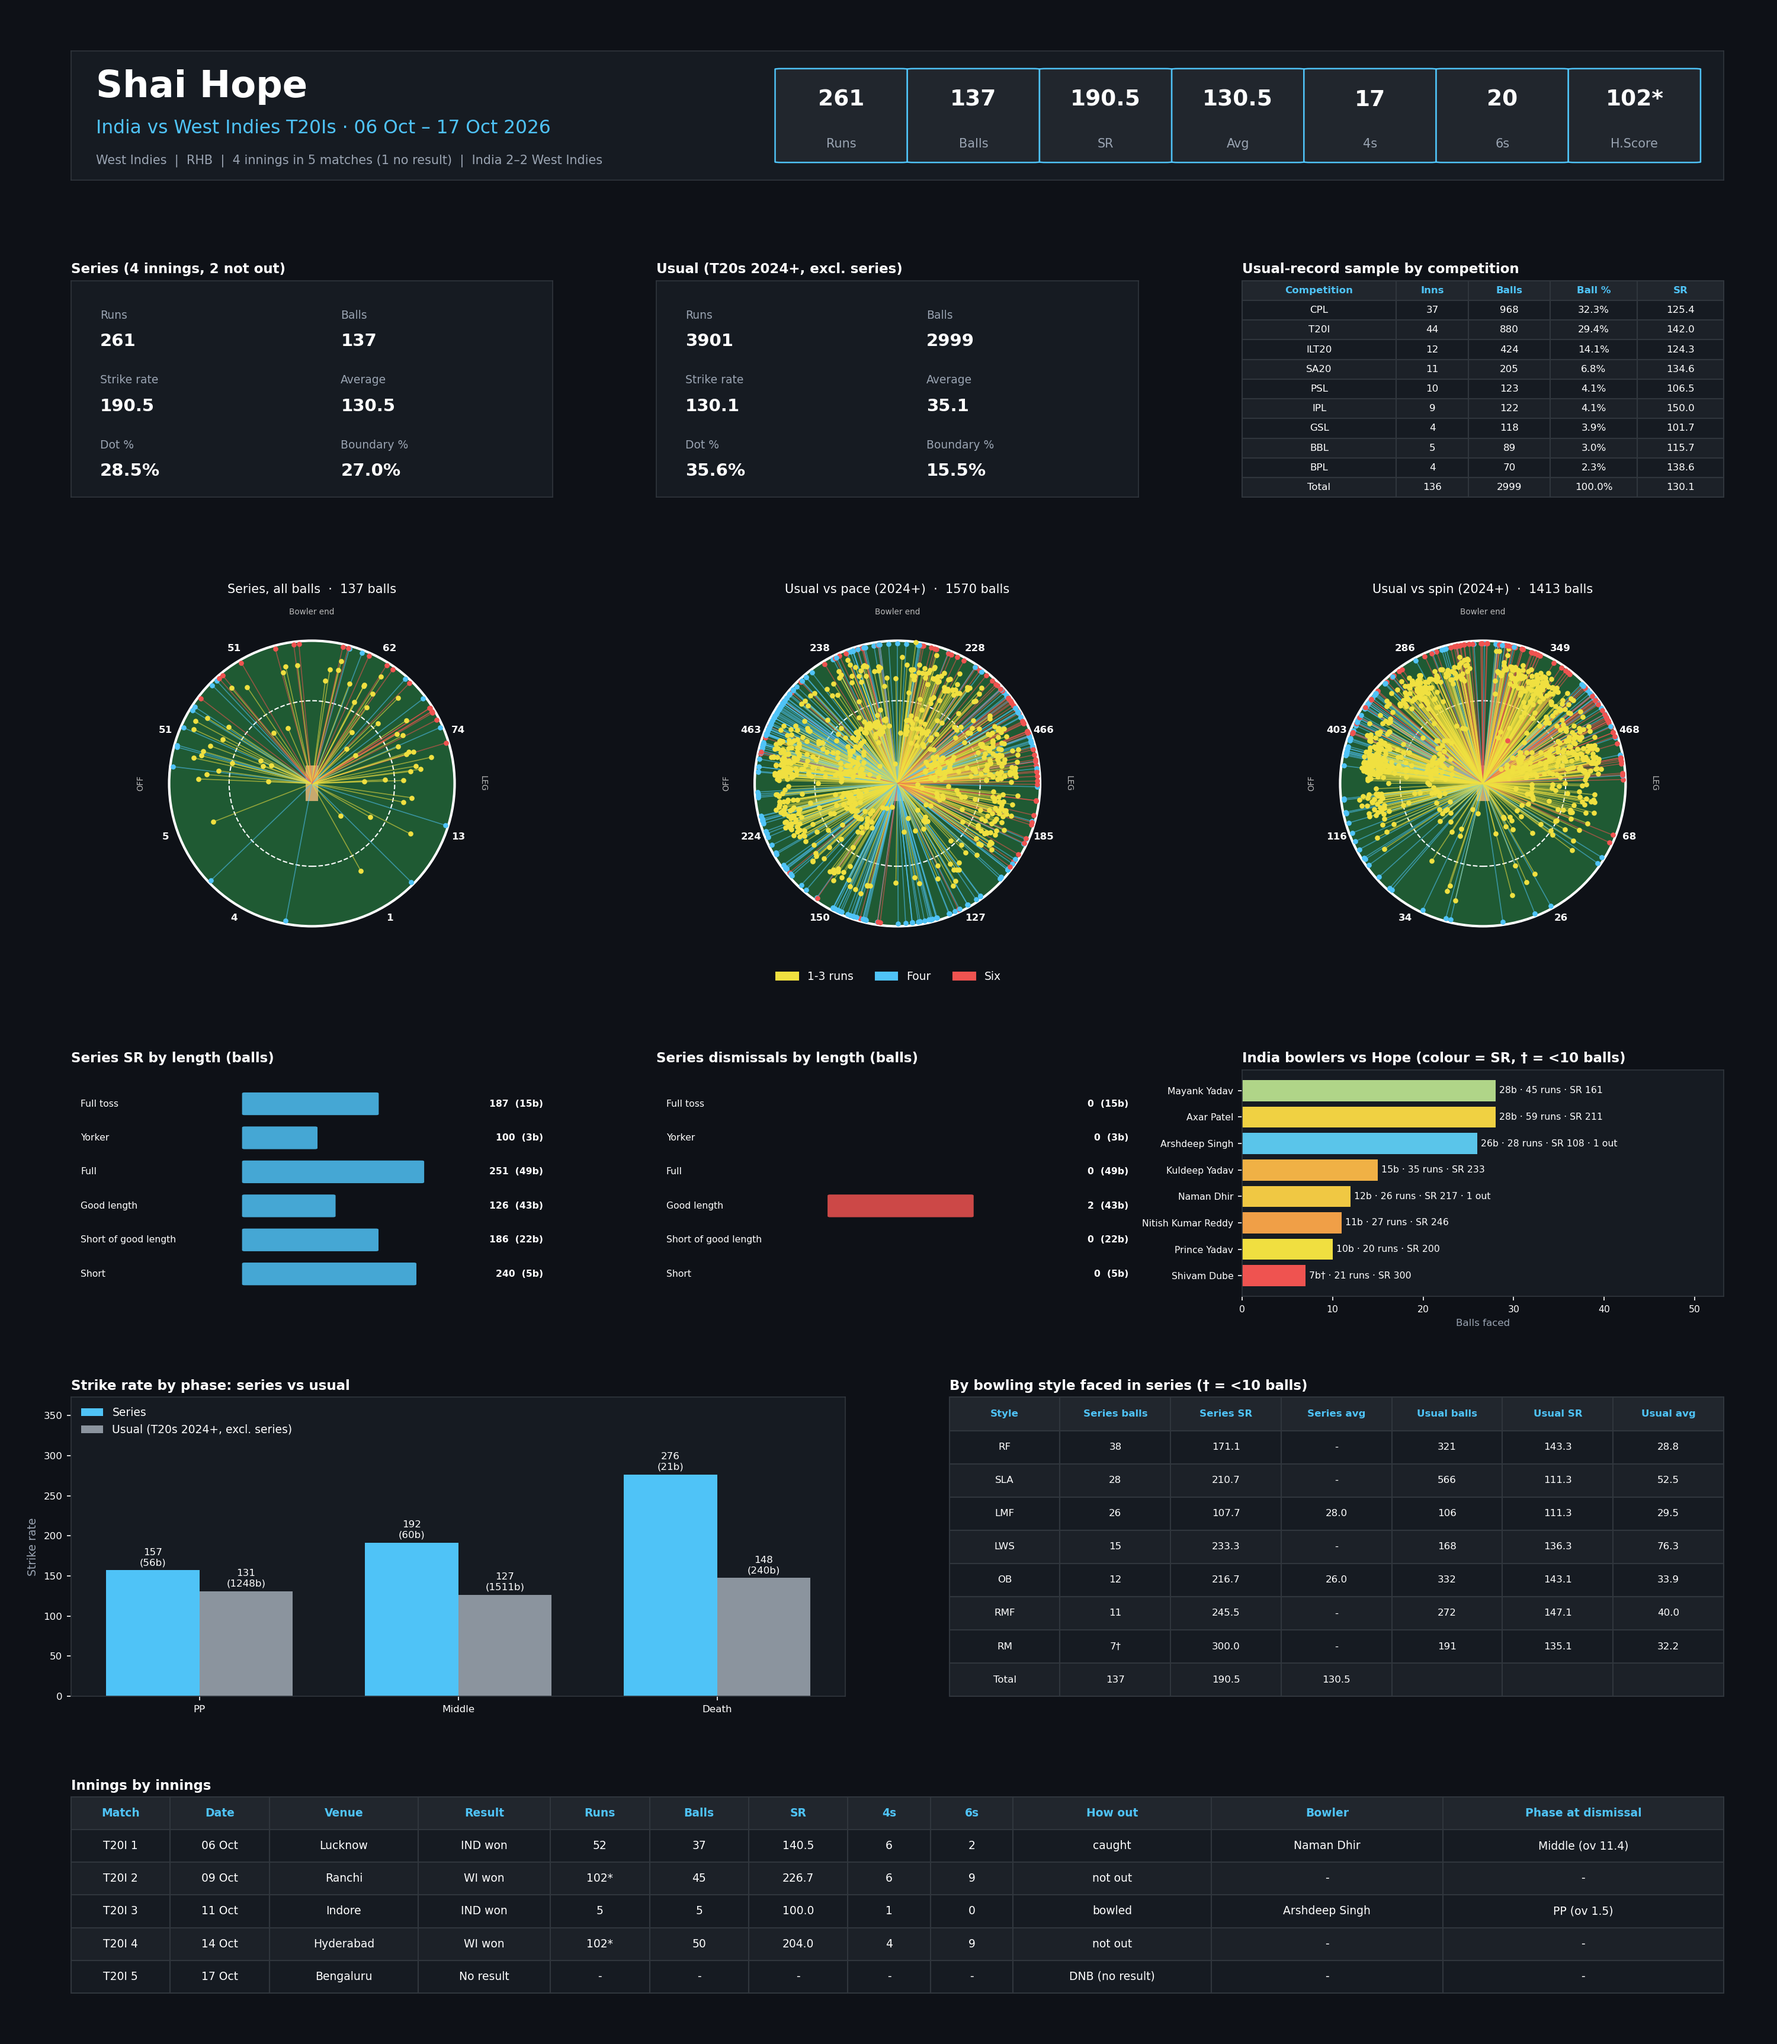
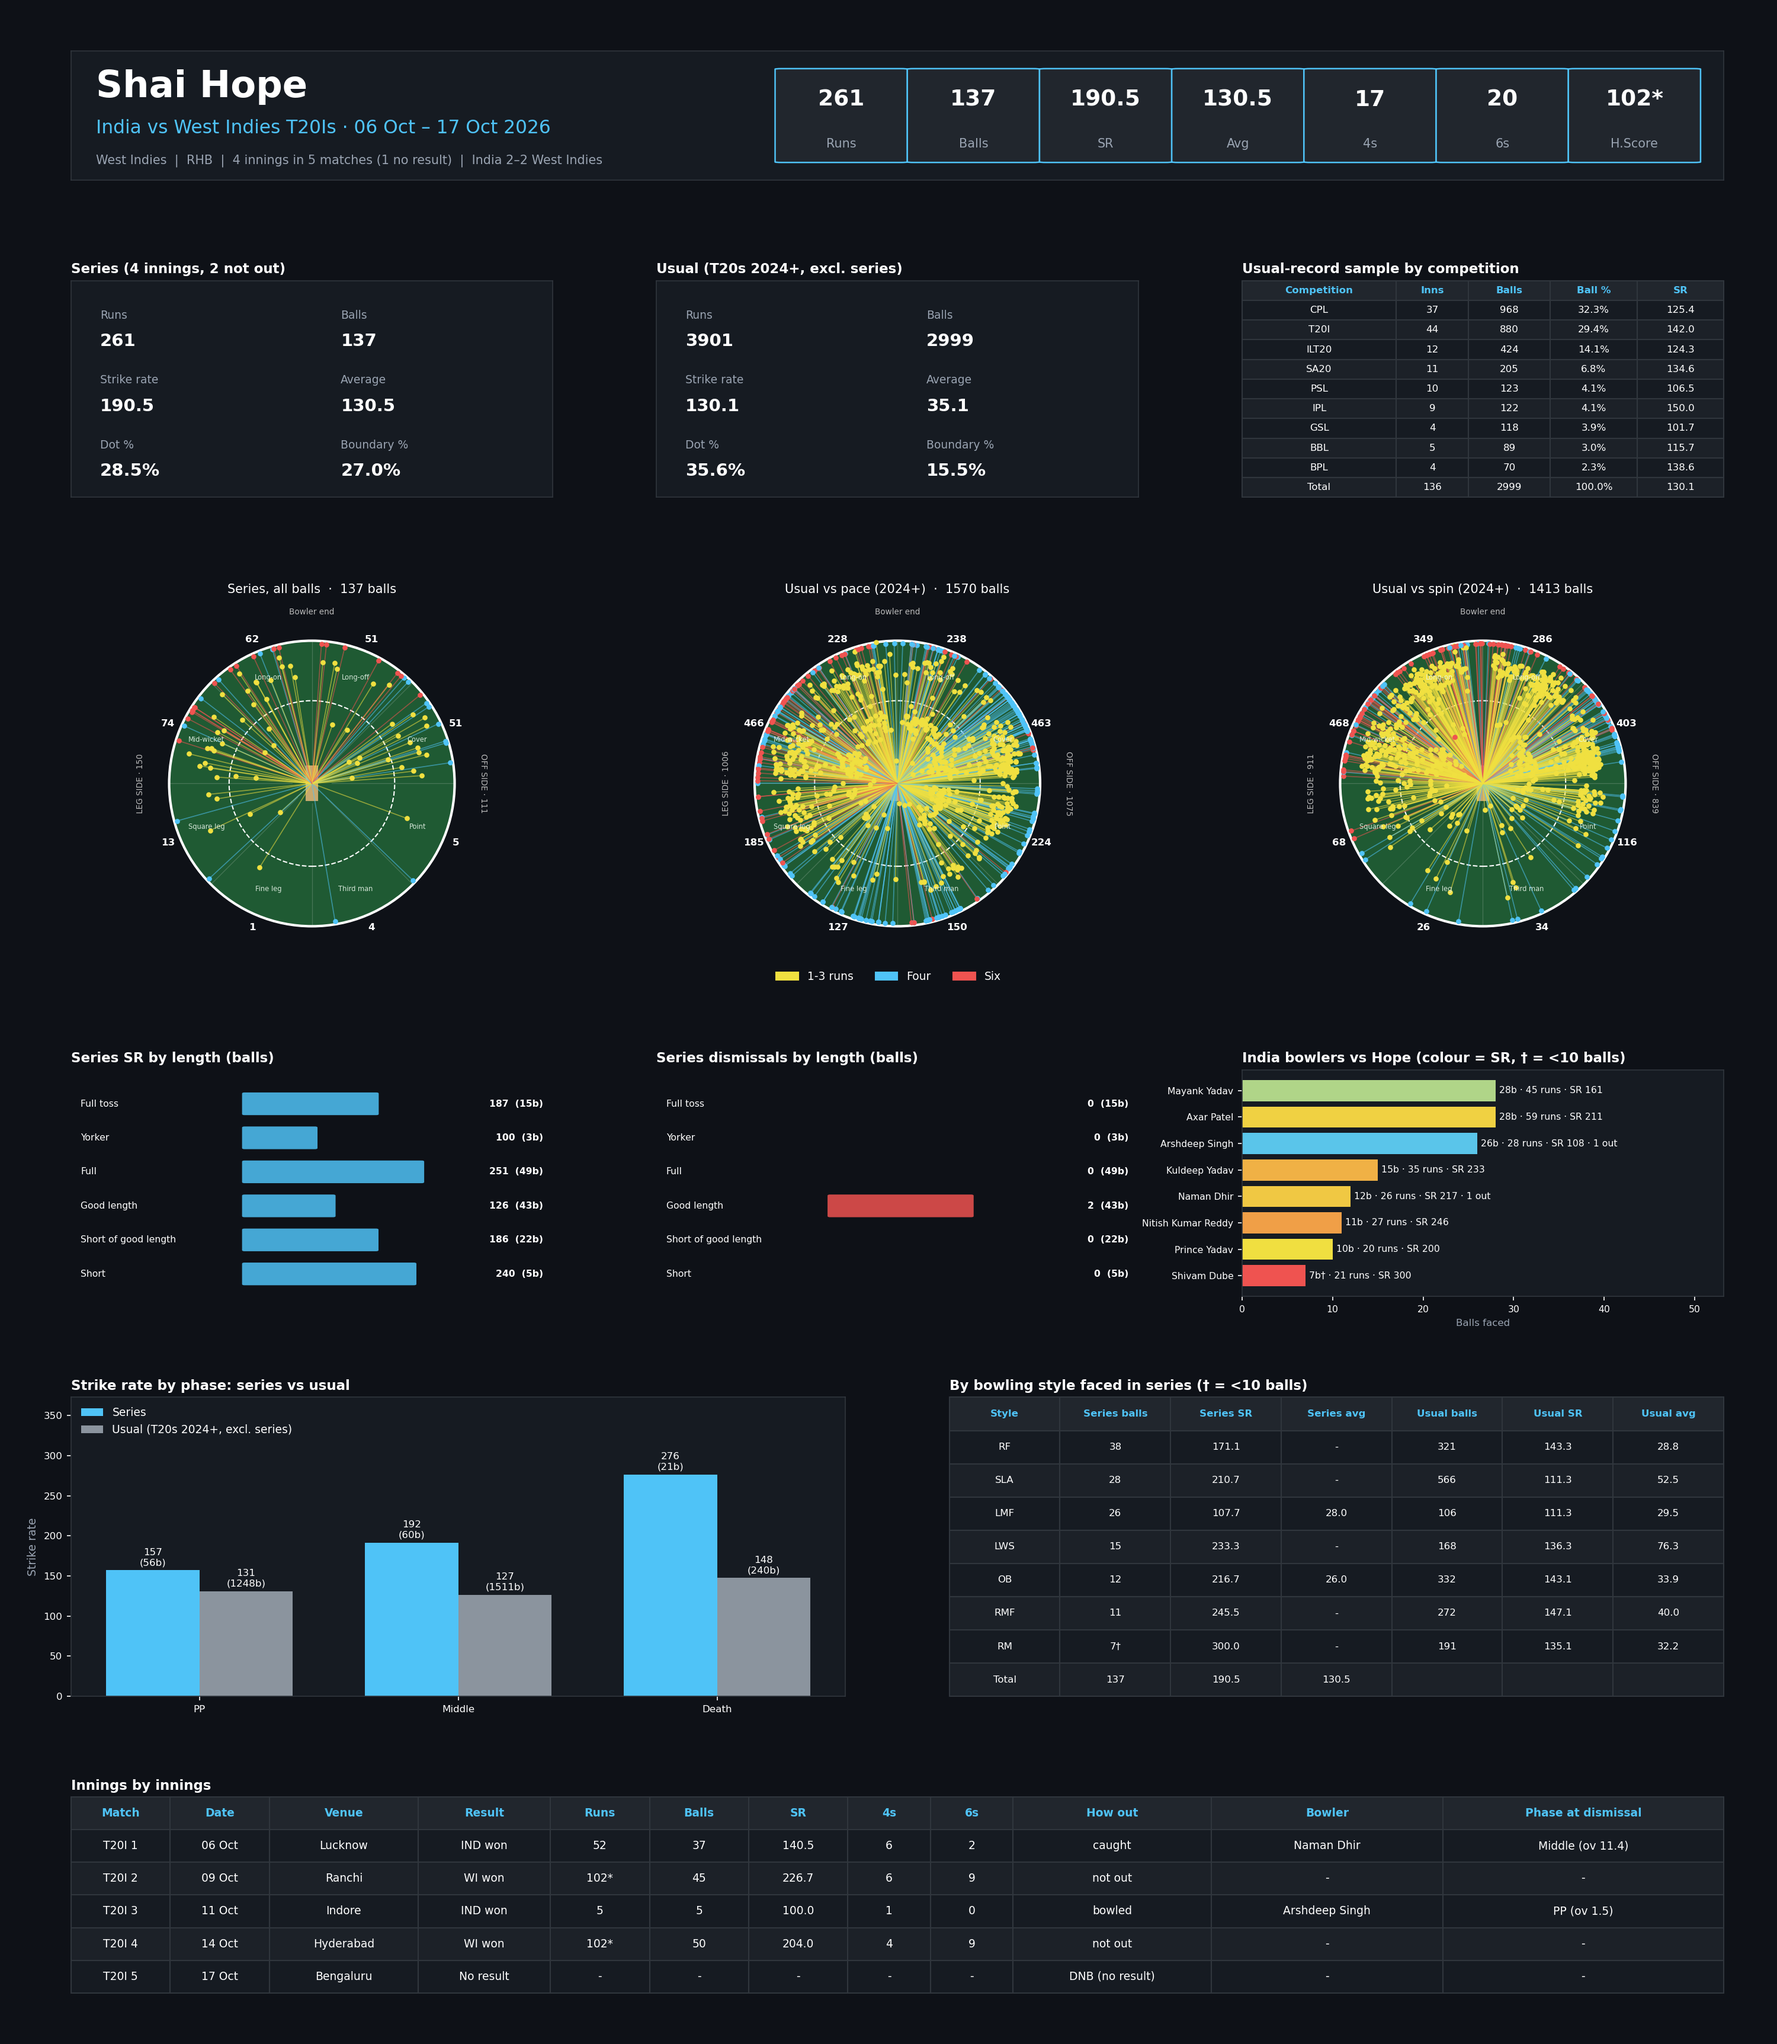
fix: redraw Hope wagon wheels from behind the batter (leg side left for RHB)
Shared wagon_wheel helper fixed in the Mitchell, Phillips and Hope notebooks.
Old transform: x=(wagonX-185)/190, y=(wagonY-170)/190, plus x=-x for LHB.
New transform: x=(180.5-wagonX)/190, y=(wagonY-165.5)/190 for both hands.
The striker centre comes from the zone dividers (99.3% wedge agreement).
- Sectors now sit at their true 45-degree positions.
- Field-position labels and the LEG SIDE / OFF SIDE totals follow the hand.
- Caption updated to say leg side is on the left for a right-hander.

Verification:
- orientation_check.py: 28/28 shot-type checks PASS (RHB Mitchell, LHB Ravindra, all RHB/LHB).
- nbconvert, all 3 notebooks: 0 errors, ALL CHECKS PASSED, text overlaps [] (Mitchell, Hope).
- Printed outputs before vs after: 0 numeric differences.
- Zone runs and leg/off % for all 9 wheels: identical (e.g. Hope series leg 57.5% / off 42.5%).
- site/build.py: Built 7 pages (4 local articles).

Changed region(s): [[0.403, 0.3101, 0.589, 0.4652], [0.744, 0.3101, 0.93, 0.4652], [0.093, 0.3101, 0.248, 0.4032]]

diff --git a/site/content/cricket/shai-hope-post-series-report-ind-wi.md b/site/content/cricket/shai-hope-post-series-report-ind-wi.md
@@ -131,7 +131,7 @@ In short, he did not need the angles. He waited for the full ball and hit it bac
 
 <figure class="chart-figure">
   <img src="/charts/cricket/hope_series_wagon_wheels.png" alt="Three wagon wheels: Hope in the series, his usual record against pace and his usual record against spin, with runs per zone marked">
-  <figcaption>Where his runs went. Left: this series (137 balls). Centre and right: his usual record against pace (1,570 balls) and spin (1,413 balls). The numbers are runs per zone. Off side is on the left for a right-hander.
+  <figcaption>Where his runs went. Left: this series (137 balls). Centre and right: his usual record against pace (1,570 balls) and spin (1,413 balls). The numbers are runs per zone. Viewed from behind the batter, so for a right-hander like Hope the leg side is on the left and the off side on the right.
   <span class="chart-source">Ball-by-ball data · West Indies in India T20I Series, 6–17 Oct 2026.</span></figcaption>
 </figure>
 
